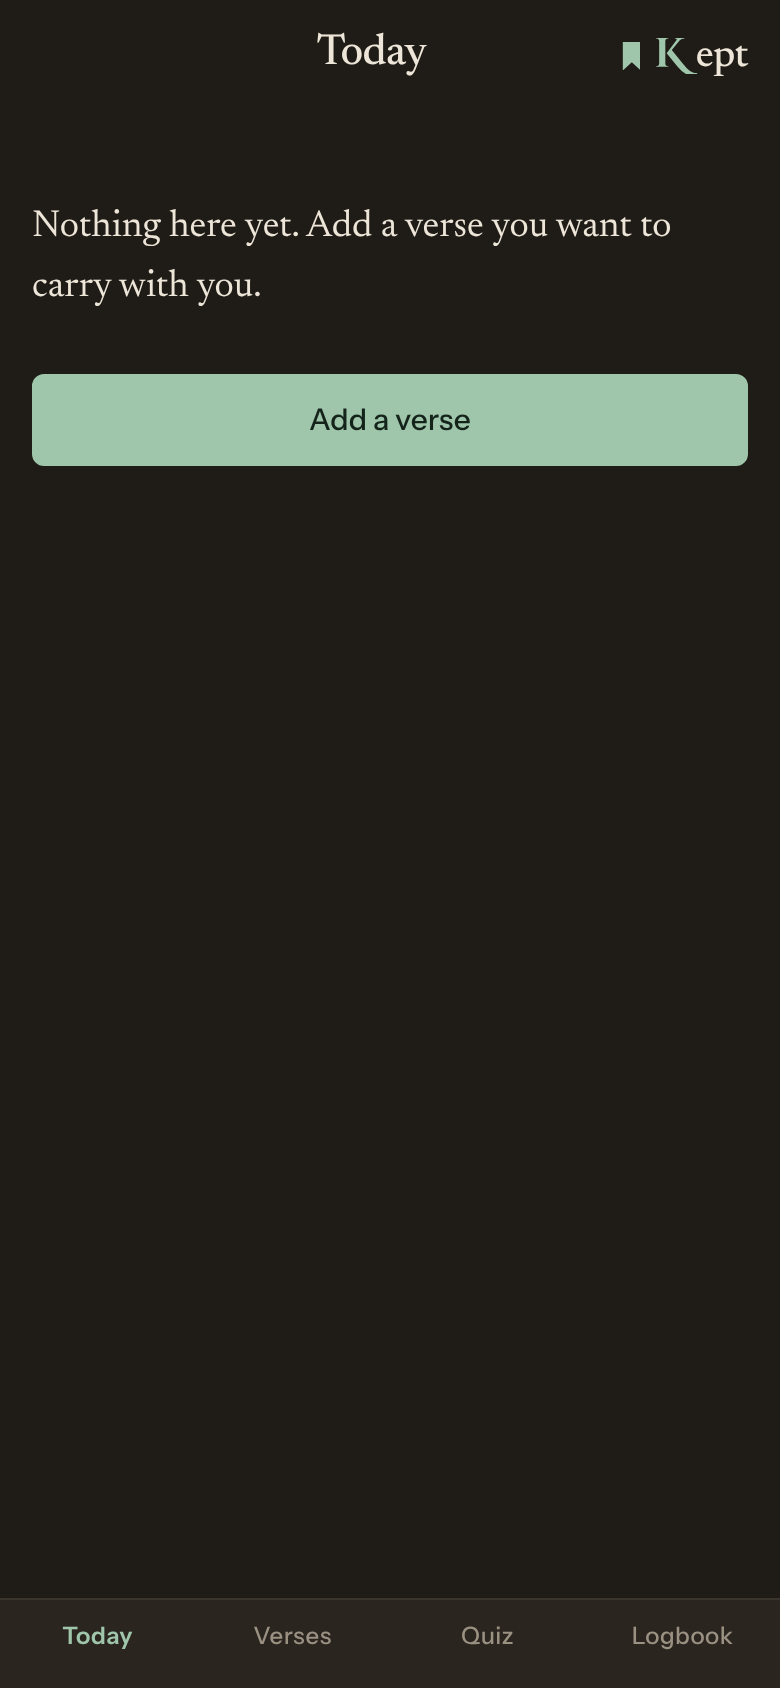
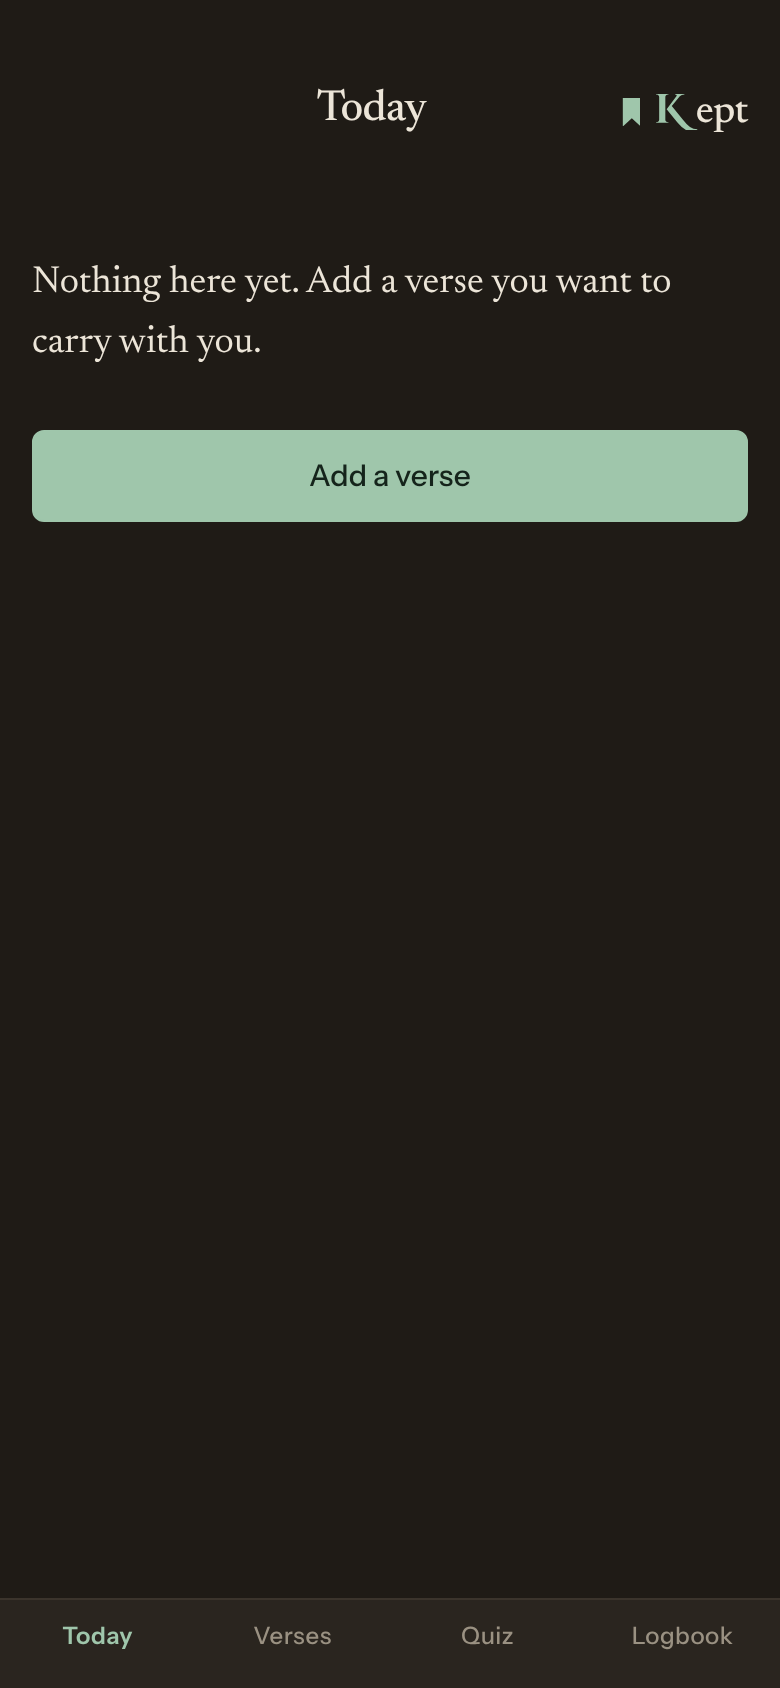
Status-bar clearance, Speak controls at the bottom, parchment splash texture, encrypted passphrase sync
- body top padding adds 20px beyond the iOS safe-area inset so headers stay clear of the status bar fade
- Speak mode: transcript first; one bottom control that goes Start speaking -> Stop -> Check / Record again
- Splash: generated parchment texture (public/splash-texture.jpg) blended over paper in light and dark
- Sync: api/sync.ts (Upstash Redis REST) + src/lib/sync.ts (PBKDF2 id/key, AES-GCM), auto push after
  writes and on background, pull on launch when newer, Backup panel in Logbook; README and .env.example

Claude-Session: https://claude.ai/code/session_01BSrifmRxYYn5T4ULHbA2sZ

diff --git a/src/lib/sync.ts b/src/lib/sync.ts
@@ -1,0 +1,98 @@
+/**
+ * Encrypted cloud backup keyed by a passphrase the user chooses.
+ * The phrase derives (a) a storage id and (b) an AES-GCM key via PBKDF2; the server only ever
+ * stores ciphertext. Reinstall the app, enter the same phrase, and everything comes back.
+ */
+import { db, exportAll, importAll } from './db'
+
+const PHRASE_KEY = 'kept-sync-phrase'
+const LAST_KEY = 'kept-sync-last'
+const enc = new TextEncoder(), dec = new TextDecoder()
+
+export function getPhrase(): string | null { try { return localStorage.getItem(PHRASE_KEY) } catch { return null } }
+export function lastSynced(): number { try { return Number(localStorage.getItem(LAST_KEY) ?? 0) } catch { return 0 } }
+function setLast(t: number) { try { localStorage.setItem(LAST_KEY, String(t)) } catch { /* ignore */ } }
+
+async function derive(phrase: string) {
+  const base = await crypto.subtle.importKey('raw', enc.encode(phrase.normalize('NFKC').trim().toLowerCase()), 'PBKDF2', false, ['deriveBits'])
+  const bits = await crypto.subtle.deriveBits({ name: 'PBKDF2', salt: enc.encode('kept-sync-v1'), iterations: 200_000, hash: 'SHA-256' }, base, 512)
+  const bytes = new Uint8Array(bits)
+  const key = await crypto.subtle.importKey('raw', bytes.slice(0, 32), 'AES-GCM', false, ['encrypt', 'decrypt'])
+  const id = Array.from(bytes.slice(32)).map(b => b.toString(16).padStart(2, '0')).join('')
+  return { key, id }
+}
+
+const b64 = (u: Uint8Array) => btoa(String.fromCharCode(...u))
+const unb64 = (s: string) => Uint8Array.from(atob(s), c => c.charCodeAt(0))
+
+async function encrypt(key: CryptoKey, text: string) {
+  const iv = crypto.getRandomValues(new Uint8Array(12))
+  const data = new Uint8Array(await crypto.subtle.encrypt({ name: 'AES-GCM', iv }, key, enc.encode(text)))
+  return { iv: b64(iv), data: b64(data) }
+}
+async function decrypt(key: CryptoKey, iv: string, data: string) {
+  return dec.decode(await crypto.subtle.decrypt({ name: 'AES-GCM', iv: unb64(iv) }, key, unb64(data)))
+}
+
+/** Upload the current database. */
+export async function push(phrase = getPhrase()): Promise<void> {
+  if (!phrase) return
+  const { key, id } = await derive(phrase)
+  const snapshot = await exportAll()
+  const updatedAt = Date.now()
+  const payload = { ...(await encrypt(key, JSON.stringify(snapshot))), updatedAt }
+  const r = await fetch(`/api/sync?id=${id}`, { method: 'PUT', headers: { 'Content-Type': 'application/json' }, body: JSON.stringify(payload) })
+  if (!r.ok) throw new Error(await r.text().catch(() => 'Backup failed.'))
+  setLast(updatedAt)
+}
+
+/** Download and merge the backup stored under this phrase. Returns false if there is none. */
+export async function pull(phrase = getPhrase()): Promise<boolean> {
+  if (!phrase) return false
+  const { key, id } = await derive(phrase)
+  const r = await fetch(`/api/sync?id=${id}`)
+  if (r.status === 404) return false
+  if (!r.ok) throw new Error(await r.text().catch(() => 'Restore failed.'))
+  const remote = await r.json() as { iv: string; data: string; updatedAt: number }
+  let text: string
+  try { text = await decrypt(key, remote.iv, remote.data) } catch { throw new Error('That phrase does not match the backup.') }
+  await importAll(JSON.parse(text))
+  setLast(remote.updatedAt)
+  return true
+}
+
+/** Turn sync on: remember the phrase, restore anything already stored under it, then upload the merged result. */
+export async function enable(phrase: string): Promise<{ restored: boolean }> {
+  const clean = phrase.trim()
+  if (clean.length < 8) throw new Error('Use a phrase of at least 8 characters.')
+  const restored = await pull(clean)
+  try { localStorage.setItem(PHRASE_KEY, clean) } catch { /* ignore */ }
+  await push(clean)
+  return { restored }
+}
+
+export function disable() { try { localStorage.removeItem(PHRASE_KEY); localStorage.removeItem(LAST_KEY) } catch { /* ignore */ } }
+
+/* ---- automatic sync: debounced push after any write, pull once per launch ---- */
+
+let timer: ReturnType<typeof setTimeout> | undefined
+export function scheduleSync(delayMs = 4000) {
+  if (!getPhrase()) return
+  clearTimeout(timer)
+  timer = setTimeout(() => { push().catch(() => { /* retried on next change */ }) }, delayMs)
+}
+
+export async function syncOnLaunch() {
+  if (!getPhrase()) return
+  try {
+    // Pull first in case another device (or a fresh reinstall) has newer data, then push the merged state.
+    const r = await fetch(`/api/sync?id=${(await derive(getPhrase()!)).id}`, { method: 'GET' })
+    if (r.ok) {
+      const remote = await r.json() as { updatedAt: number }
+      if (remote.updatedAt > lastSynced()) await pull()
+    }
+    const count = await db.verses.count()
+    if (count > 0) await push()
+  } catch { /* offline; try again next launch */ }
+  document.addEventListener('visibilitychange', () => { if (document.hidden) push().catch(() => {}) })
+}

diff --git a/src/styles/base.css b/src/styles/base.css
@@ -1,13 +1,13 @@
 @import url('https://fonts.googleapis.com/css2?family=Newsreader:ital,opsz,wght@0,6..72,400;0,6..72,500;0,6..72,600;1,6..72,400;1,6..72,500&family=Instrument+Sans:ital,wght@0,400;0,500;0,600;1,400&display=swap');
 * { box-sizing: border-box; }
 html, body { margin: 0; background: var(--paper); color: var(--ink); font-family: var(--font-sans); font-size: var(--fs-ui); line-height: var(--lh-ui); -webkit-font-smoothing: antialiased; }
-body { padding-top: env(safe-area-inset-top); }
+body { padding-top: calc(env(safe-area-inset-top, 0px) + 20px); }
 a { color: var(--accent); }
 .app { min-height: 100dvh; display: flex; flex-direction: column; }
 .screen { flex: 1; padding: 0 var(--gutter-r) calc(var(--tabbar-h) + var(--sp-5) + env(safe-area-inset-bottom)) var(--gutter); max-width: 640px; width: 100%; margin: 0 auto; }
 
 /* Header + wordmark */
-.header { display: grid; grid-template-columns: var(--tap) 1fr auto; align-items: center; min-height: 56px; }
+.header { display: grid; grid-template-columns: var(--tap) 1fr auto; align-items: center; min-height: 56px; margin-top: var(--sp-2); }
 .title { font-family: var(--font-serif); font-weight: 500; font-size: var(--fs-h3); letter-spacing: var(--ls-tight); margin: 0; text-align: center; }
 .back { font-size: 28px; line-height: var(--tap); text-decoration: none; color: var(--ink); width: var(--tap); }
 .header-action { min-width: var(--tap); display: flex; justify-content: flex-end; }
@@ -17,7 +17,11 @@ a { color: var(--accent); }
 .wordmark-k { display: inline-block; color: var(--accent); margin-right: -.06em; }
 
 /* Launch splash */
-.splash { position: fixed; inset: 0; z-index: 50; background: var(--paper); color: var(--ink); display: flex; flex-direction: column; align-items: center; justify-content: center; padding: calc(env(safe-area-inset-top) + var(--sp-7)) var(--gutter-r) calc(env(safe-area-inset-bottom) + var(--sp-5)) var(--gutter); opacity: 1; transition: opacity var(--dur-slow) var(--ease-in-out); }
+.splash { position: fixed; inset: 0; z-index: 50; background: var(--paper); background-size: cover; background-position: center; color: var(--ink); display: flex; flex-direction: column; align-items: center; justify-content: center; padding: calc(env(safe-area-inset-top) + var(--sp-7)) var(--gutter-r) calc(env(safe-area-inset-bottom) + var(--sp-5)) var(--gutter); opacity: 1; transition: opacity var(--dur-slow) var(--ease-in-out); }
+.splash::before { content: ''; position: absolute; inset: 0; background: url(/splash-texture.jpg) center / cover no-repeat; mix-blend-mode: multiply; opacity: .9; pointer-events: none; }
+@media (prefers-color-scheme: dark) { :root:not([data-theme="light"]) .splash::before { mix-blend-mode: overlay; opacity: .32; } }
+:root[data-theme="dark"] .splash::before { mix-blend-mode: overlay; opacity: .32; }
+.splash-center, .splash-legal { position: relative; }
 .splash.out { opacity: 0; pointer-events: none; }
 .splash-center { flex: 1; display: flex; flex-direction: column; align-items: center; justify-content: center; gap: var(--sp-5); text-align: center; }
 .splash-mark { display: block; width: 22px; height: 36px; background: var(--accent); clip-path: polygon(0 0, 100% 0, 100% 100%, 50% 72%, 0 100%); }
@@ -80,7 +84,9 @@ a { color: var(--accent); }
 .w.wrong, .w.extra { color: var(--miss); text-decoration: line-through; }
 .w.missing { color: var(--miss); text-decoration: underline; text-underline-offset: 3px; }
 .chunks { font-size: var(--fs-ui); line-height: var(--lh-body); padding-left: 20px; color: var(--ink-2); }
-.transcript { font-family: var(--font-serif); font-size: var(--fs-verse); line-height: var(--lh-verse); min-height: 80px; }
+.transcript { font-family: var(--font-serif); font-size: var(--fs-verse); line-height: var(--lh-verse); min-height: 96px; padding: var(--sp-3) 0; border-top: 1px solid var(--rule); border-bottom: 1px solid var(--rule); }
+.transcript.live { border-color: var(--accent); }
+.speak-controls { position: sticky; bottom: calc(var(--tabbar-h) + env(safe-area-inset-bottom)); background: var(--paper); padding-top: var(--sp-2); }
 
 /* Quiz */
 .blank { color: var(--accent); }
@@ -89,3 +95,6 @@ a { color: var(--accent); }
 .button.option.wrong { border-color: var(--miss); color: var(--miss); }
 .actions { margin-top: var(--sp-5); display: flex; gap: var(--sp-2); }
 .empty { padding-top: var(--sp-5); }
+
+.sync { margin-top: var(--sp-6); padding-top: var(--sp-4); border-top: 1px solid var(--rule); }
+.section-title { font-family: var(--font-serif); font-weight: 500; font-size: var(--fs-h3); margin: 0 0 var(--sp-2); }

diff --git a/src/pages/Logbook.tsx b/src/pages/Logbook.tsx
@@ -1,7 +1,9 @@
+import { useState } from 'react'
 import { useLiveQuery } from 'dexie-react-hooks'
 import { Link } from 'react-router-dom'
 import { db, exportAll, importAll } from '../lib/db'
 import Header from '../components/Header'
+import { getPhrase, lastSynced, enable, disable, push } from '../lib/sync'
 
 export default function Logbook() {
   const verses = useLiveQuery(() => db.verses.orderBy('createdAt').toArray(), [])
@@ -36,10 +38,55 @@ export default function Logbook() {
           </Link>
         )
       })}
+      <SyncPanel />
       <section className="actions">
-        <button className="button ghost" onClick={doExport}>Export backup</button>
-        <label className="button ghost">Import backup<input type="file" accept="application/json" onChange={doImport} hidden /></label>
+        <button className="button ghost" onClick={doExport}>Export file</button>
+        <label className="button ghost">Import file<input type="file" accept="application/json" onChange={doImport} hidden /></label>
       </section>
     </>
+  )
+}
+
+function SyncPanel() {
+  const [phrase, setPhrase] = useState('')
+  const [busy, setBusy] = useState(false)
+  const [msg, setMsg] = useState('')
+  const [on, setOn] = useState(!!getPhrase())
+  const last = lastSynced()
+
+  async function turnOn(e: React.FormEvent) {
+    e.preventDefault(); setBusy(true); setMsg('')
+    try {
+      const { restored } = await enable(phrase)
+      setOn(true); setPhrase('')
+      setMsg(restored ? 'Restored your verses and progress from this phrase. Sync is on.' : 'Sync is on. Keep your phrase somewhere safe.')
+    } catch (err) { setMsg((err as Error).message) }
+    finally { setBusy(false) }
+  }
+  async function syncNow() { setBusy(true); setMsg(''); try { await push(); setMsg('Backed up just now.') } catch (err) { setMsg((err as Error).message) } finally { setBusy(false) } }
+
+  return (
+    <section className="sync">
+      <h2 className="section-title">Backup</h2>
+      {on ? (
+        <>
+          <p className="muted">Sync is on. Your verses and progress are encrypted with your phrase and backed up after every practice.{last ? ` Last backup ${new Date(last).toLocaleString()}.` : ''}</p>
+          <div className="actions">
+            <button className="button ghost" onClick={syncNow} disabled={busy}>{busy ? 'Backing up…' : 'Back up now'}</button>
+            <button className="button ghost" onClick={() => { disable(); setOn(false); setMsg('Sync is off. Your data stays on this phone.') }}>Turn off</button>
+          </div>
+        </>
+      ) : (
+        <form className="form" onSubmit={turnOn}>
+          <p className="muted">Choose a sync phrase and keep it somewhere safe. If you delete or reinstall the app, enter the same phrase here and everything comes back.</p>
+          <label className="field">
+            <span>Sync phrase</span>
+            <input value={phrase} onChange={e => setPhrase(e.target.value)} placeholder="e.g. hidden in my heart 119" autoCapitalize="none" autoComplete="off" />
+          </label>
+          <button className="button primary" disabled={busy || phrase.trim().length < 8}>{busy ? 'Working…' : 'Turn on sync'}</button>
+        </form>
+      )}
+      {msg && <p className="muted" role="status">{msg}</p>}
+    </section>
   )
 }

diff --git a/src/pages/Practice.tsx b/src/pages/Practice.tsx
@@ -6,6 +6,7 @@ import { tokenize, wordDiff, normalizeWord, type DiffOp } from '../lib/text'
 import { hintText } from '../lib/hints'
 import { gradeFromAccuracy, newReviewState, review } from '../lib/srs'
 import { speechMethod, startListening, startRecording } from '../lib/speech'
+import { scheduleSync } from '../lib/sync'
 import type { Mode, Verse } from '../lib/types'
 import Header from '../components/Header'
 import VerseText from '../components/VerseText'
@@ -40,6 +41,7 @@ export default function Practice() {
 
 async function recordAttempt(verse: Verse, mode: Mode, accuracy: number, hintsUsed: number, startedAt: number) {
   await db.attempts.add({ verseId: verse.id!, mode, accuracy, hintsUsed, durationMs: Date.now() - startedAt, at: Date.now() })
+  scheduleSync()
   if (mode === 'read') return
   const state = (await db.reviews.get(verse.id!)) ?? newReviewState(verse.id!)
   await db.reviews.put(review(state, gradeFromAccuracy(accuracy, hintsUsed)))
@@ -183,15 +185,27 @@ function SpeakMode({ verse }: { verse: Verse }) {
   }
   if (method === 'none') return <p className="lede">Speaking practice needs a microphone and a modern browser. Try Safari on iPhone or Chrome on Android.</p>
   if (result) return <Result accuracy={result.accuracy} ops={result.ops} onAgain={() => { setResult(null); setTranscript(''); setHints(0); started.current = Date.now() }} />
+  const hasText = !!transcript.trim()
   return (
     <section>
-      <button className={'button mic' + (listening ? ' live' : '')} onClick={toggle} disabled={transcribing}>
-        {listening ? 'Stop' : transcribing ? 'Transcribing…' : 'Start speaking'}
-      </button>
-      <p className="transcript">{transcript || <span className="muted">{listening ? 'Listening…' : 'Say the verse aloud, then tap Stop.'}</span>}</p>
+      <p className="muted">{verse.reference} · {verse.words.length} words · say it aloud, then tap Stop.</p>
+      <p className={'transcript' + (listening ? ' live' : '')}>
+        {transcript || <span className="muted">{listening ? 'Listening…' : transcribing ? 'Transcribing…' : 'Your words will appear here.'}</span>}
+      </p>
       {error && <p className="error">{error}</p>}
       <HintPanel verse={verse} at={at} onUse={() => setHints(h => h + 1)} />
-      <button className="button primary" onClick={check} disabled={!transcript.trim() || listening || transcribing}>Check</button>
+      <div className="speak-controls">
+        {listening ? (
+          <button className="button mic live" onClick={toggle}>Stop</button>
+        ) : hasText ? (
+          <>
+            <button className="button primary" onClick={check} disabled={transcribing}>Check</button>
+            <button className="button ghost" onClick={toggle} disabled={transcribing}>Record again</button>
+          </>
+        ) : (
+          <button className="button primary mic" onClick={toggle} disabled={transcribing}>{transcribing ? 'Transcribing…' : 'Start speaking'}</button>
+        )}
+      </div>
     </section>
   )
 }

diff --git a/api/sync.ts b/api/sync.ts
@@ -1,0 +1,41 @@
+// Vercel serverless function: stores one encrypted backup blob per sync id in Upstash Redis.
+//   GET  /api/sync?id=<hex>            -> { iv, data, updatedAt } or 404
+//   PUT  /api/sync?id=<hex>  body JSON -> { ok: true }
+// The blob is encrypted on the device with a key derived from the user's sync phrase; the server never sees plaintext.
+// Requires UPSTASH_REDIS_REST_URL and UPSTASH_REDIS_REST_TOKEN (Vercel Marketplace: Upstash Redis).
+type Req = { method?: string; query: Record<string, string | string[] | undefined>; body?: unknown }
+type Res = { status: (n: number) => Res; json: (b: unknown) => void; send: (b: string) => void; setHeader: (k: string, v: string) => void }
+
+const MAX_BYTES = 2_000_000
+
+async function redis(cmd: unknown[]) {
+  const url = process.env.UPSTASH_REDIS_REST_URL, token = process.env.UPSTASH_REDIS_REST_TOKEN
+  if (!url || !token) throw new Error('Sync is not configured on the server yet (Upstash Redis).')
+  const r = await fetch(url, { method: 'POST', headers: { Authorization: `Bearer ${token}`, 'Content-Type': 'application/json' }, body: JSON.stringify(cmd) })
+  if (!r.ok) throw new Error(`Storage error ${r.status}`)
+  return (await r.json() as { result: unknown }).result
+}
+
+export default async function handler(req: Req, res: Res) {
+  const id = String(req.query.id ?? '')
+  if (!/^[0-9a-f]{48,64}$/.test(id)) return res.status(400).send('Bad sync id')
+  res.setHeader('Cache-Control', 'no-store')
+  try {
+    if (req.method === 'GET') {
+      const raw = await redis(['GET', `kept:${id}`])
+      if (!raw) return res.status(404).send('No backup yet')
+      return res.status(200).json(JSON.parse(String(raw)))
+    }
+    if (req.method === 'PUT') {
+      const body = typeof req.body === 'string' ? req.body : JSON.stringify(req.body ?? {})
+      if (body.length > MAX_BYTES) return res.status(413).send('Backup too large')
+      const parsed = JSON.parse(body) as { iv?: string; data?: string; updatedAt?: number }
+      if (!parsed.iv || !parsed.data || !parsed.updatedAt) return res.status(400).send('Bad payload')
+      await redis(['SET', `kept:${id}`, JSON.stringify(parsed)])
+      return res.status(200).json({ ok: true })
+    }
+    return res.status(405).send('GET or PUT')
+  } catch (e) {
+    return res.status(503).send((e as Error).message)
+  }
+}

diff --git a/vite.config.ts b/vite.config.ts
@@ -7,7 +7,7 @@ export default defineConfig({
     react(),
     VitePWA({
       registerType: 'autoUpdate',
-      includeAssets: ['apple-touch-icon.png', 'favicon.svg'],
+      includeAssets: ['apple-touch-icon.png', 'favicon.svg', 'splash-texture.jpg'],
       manifest: {
         name: 'Kept — scripture by heart',
         short_name: 'Kept',
@@ -23,7 +23,7 @@ export default defineConfig({
         ],
       },
       workbox: {
-        globPatterns: ['**/*.{js,css,html,svg,png,woff2}'],
+        globPatterns: ['**/*.{js,css,html,svg,png,jpg,woff2}'],
         navigateFallback: '/index.html',
         runtimeCaching: [
           {

diff --git a/src/pages/AddVerse.tsx b/src/pages/AddVerse.tsx
@@ -7,6 +7,7 @@ import { tokenize } from '../lib/text'
 import { newReviewState } from '../lib/srs'
 import type { TranslationId, ThoughtChunk } from '../lib/types'
 import Header from '../components/Header'
+import { scheduleSync } from '../lib/sync'
 import VerseText from '../components/VerseText'
 
 export default function AddVerse() {
@@ -58,6 +59,7 @@ export default function AddVerse() {
     })
     await db.reviews.put(newReviewState(id as number))
     await db.settings.put({ ...(await getSettings()), defaultTranslation: translation })
+    scheduleSync(1000)
     nav(`/practice/${id}`, { replace: true })
   }
 

diff --git a/src/App.tsx b/src/App.tsx
@@ -9,9 +9,10 @@ import Practice from './pages/Practice'
 import Quiz from './pages/Quiz'
 import Logbook from './pages/Logbook'
 import { requestPersistence } from './lib/db'
+import { syncOnLaunch } from './lib/sync'
 
 export default function App() {
-  useEffect(() => { requestPersistence() }, [])
+  useEffect(() => { requestPersistence(); syncOnLaunch() }, [])
   return (
     <div className="app">
       <Splash />

diff --git a/README.md b/README.md
@@ -31,7 +31,12 @@ Open the printed URL on your phone (same Wi-Fi) to try it. The `/api` functions 
    - `ANTHROPIC_API_KEY` (console.anthropic.com) for hints
    - `ESV_API_KEY` (api.esv.org, free for non-commercial use) for the ESV
    - `GROQ_API_KEY` (console.groq.com) for speak-aloud practice in the installed iOS app, where the Web Speech API is unavailable and the app records audio and transcribes it via `api/transcribe.ts`
-4. Deploy. Open the URL on your phone, then Share, "Add to Home Screen".
+   - `UPSTASH_REDIS_REST_URL` and `UPSTASH_REDIS_REST_TOKEN` for cloud backup. Easiest: in the Vercel project, Storage tab, "Create Database", pick Upstash Redis (free tier). Vercel injects both variables automatically.
+4. Deploy.
+
+## Backup and restore
+
+Data lives on the phone in IndexedDB. To survive deleting or reinstalling the app, open Logbook, choose a sync phrase (8+ characters) and turn on sync. The app derives an encryption key and a storage id from the phrase with PBKDF2, encrypts the whole database with AES-GCM, and uploads it through `api/sync.ts` to Upstash Redis after every practice and whenever the app goes to the background. The server only ever sees ciphertext. On a fresh install, enter the same phrase in Logbook and everything is restored. Export and import of a plain JSON file remain available as a manual fallback. Open the URL on your phone, then Share, "Add to Home Screen".
 
 ## Project layout
 
